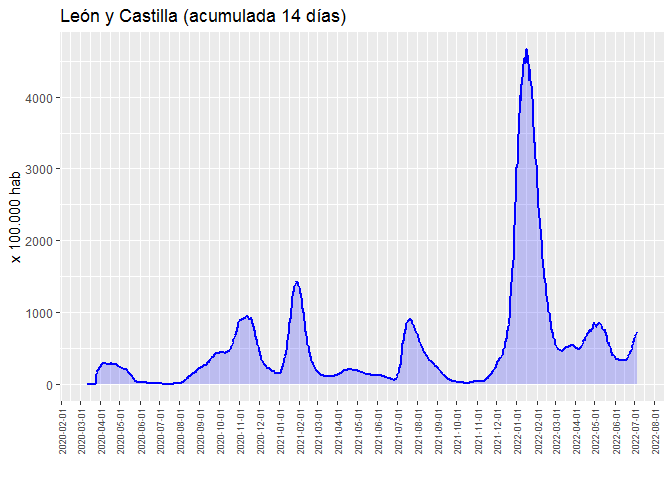
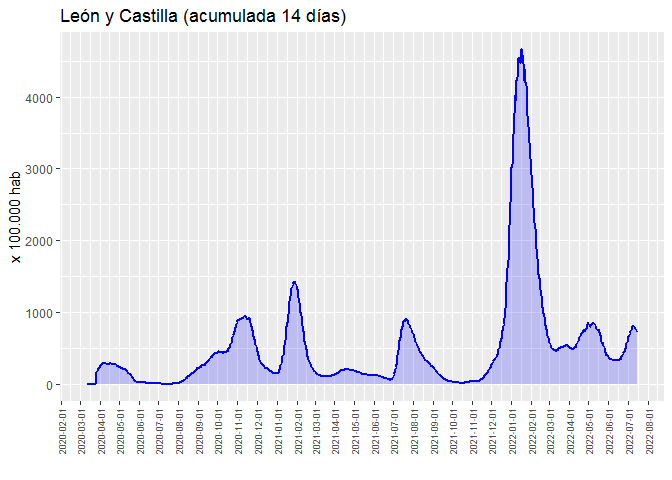
update

diff --git a/README.md b/README.md
@@ -1,7 +1,7 @@
 Covid-19: Incidencia acumulada
 ================
 JMSS \[Usal - CIC\]
-(updated: 06 jul 2022)
+(updated: 18 jul 2022)
 
 ### Incidencia acumulada del Covid19 por cada 100.000 habitantes
 
